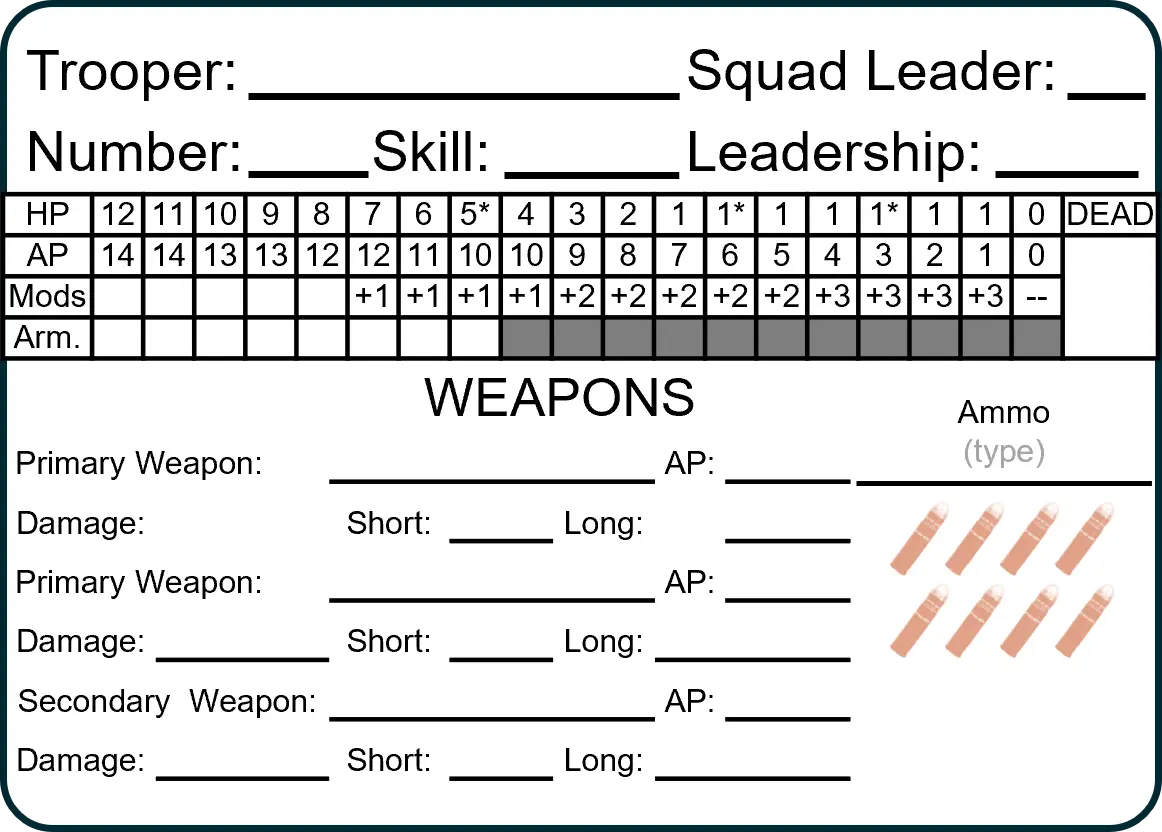
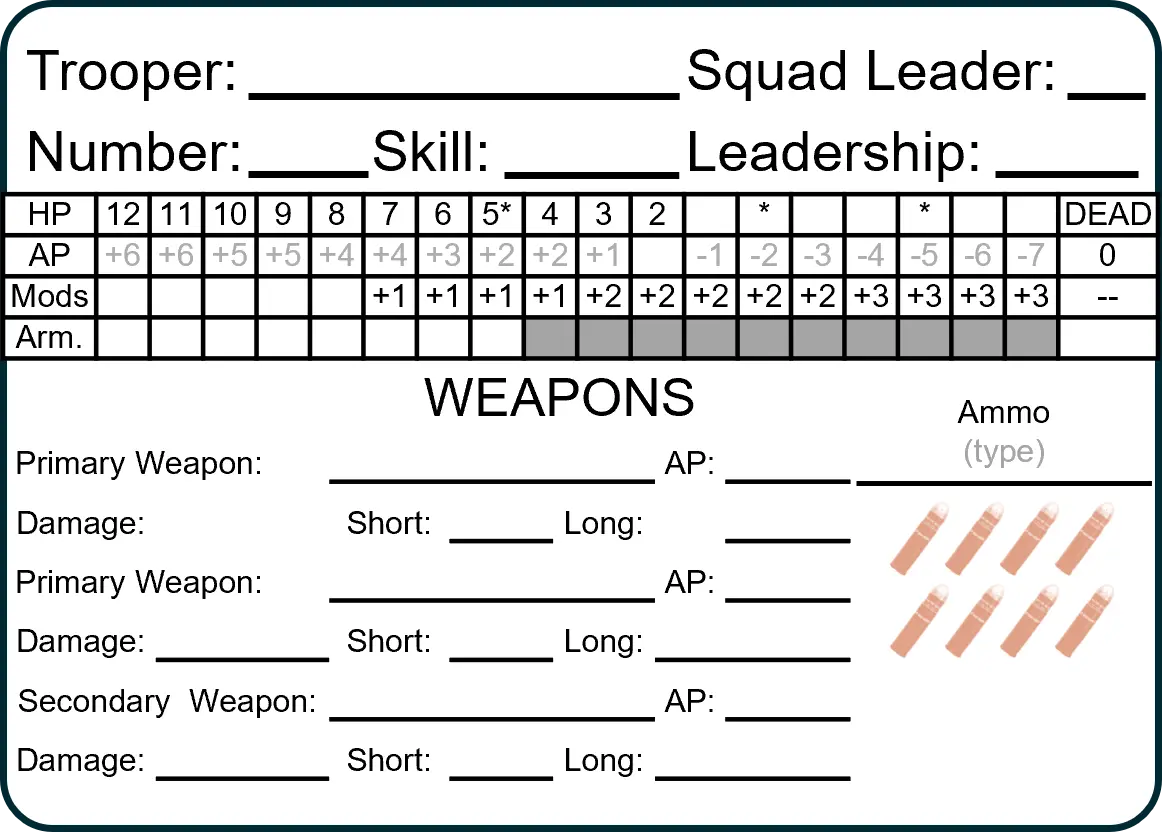
playtest fixes

Changed region(s): [[0.0, 0.2188, 0.9914, 0.4375]]

diff --git a/rules/2-Infantry/4-Combat.tex b/rules/2-Infantry/4-Combat.tex
@@ -23,19 +23,38 @@ This attack is resolved before the targeted trooper continues their movement.
 \caption*{Firing Arc AP Costs}
 \end{table}
 
+\paragraph*{Line of Sight}
+
+If a trooper can only attack a target if they have a valid line of sight.
+Draw a straight line between the firing trooper and the targeted trooper.
+Obstructions, such as furniture, light vegetation, and low walls, provide cover but do not block line of sight.
+Additional troopers, enemy or friendly, between the firing trooper and the targeted trooper also provide cover, unless the firing trooper is standing and the intervening trooper is prone.
+Impassible obstacles, such as a solid high wall, the truck of a tree, or a trooper, block line of sight.
+
+If the firing trooper or targeted trooper is prone, then any solid low obstructions, such as furniture and low walls, that are adjacent to firing trooper block line of sight.
+If the firing trooper and the targeted trooper are prone, then any solid low obstructions block line of sight.
+
+If either the firing trooper or the targeted trooper is at a higher level, such as at the window in a building, then only obstructions and obstacles at the same level of the higher trooper provide cover or block line of sight.
+However, all obstructions and obstacles within one dot of the targeted trooper always provides cover or blocks line of sight.
+
 \paragraph*{Resolving Fire}
 
 Note: Players resolve fire during the enemy movement, which occurs during your opponent's turn.
 
-If an enemy trooper activates in or moves into a firing arc, the firing trooper may choose to fire as long as the firing trooper has line of sight.
-A trooper may decide not to fire if they wish to preserve the firing arc for a future target.
+If an enemy trooper activates in or moves into a firing arc, the firing trooper may choose to fire as long as the firing trooper has a valid line of sight.
+If an enemy trooper is in multiple firing arcs, then firing troopers may all choose to fire, in any order.
+If an enemy trooper stands from prone, then they may be shot by any firing trooper that did not previously attack them on the current dot.
+A firing trooper may decide to not fire if they wish to preserve the firing arc for a future target.
 
-Draw a straight line between the firing trooper and the targeted trooper.
-Obstructions, such as furniture, light vegetation, and low walls, provide cover but do not block line of sight.
-Impassible obstacles, such as a solid high wall, the truck of a tree, or a trooper, block line of sight.
+The firing trooper may spend up to their current maximum AP firing into their firing arc during enemy movement.
+First, mark the AP spent by the firing trooper based upon the AP cost of their current active weapon.
+A trooper may make multiple attacks with their current active weapon as long as they have sufficient remaining AP.
+A trooper may always make a minimum of 1 attack into a firing arc.
+For example, a trooper 8 AP may fire a pistol twice into a firing arc while a trooper with 4 AP may only fire a long rifle once.
+After marking the AP spent firing, resolve the attack.
 
 Resolving fire is a 2D6 check with the firing trooper's current active weapon.
-If the roll meets or exceeds the target number, the attack succeeds.
+If the roll meets or exceeds the target number, then the attack succeeds.
 
 The base target number for ranged attacks is 6.
 Count the number of dots in the shortest path between the firing trooper and target trooper to determine the range.
@@ -88,14 +107,13 @@ The corresponding maximum AP is given by this column on the unit card.
 The new maximum AP immediately applies to the targeted trooper.
 If this new AP value meets or exceeds the AP the targeted trooper has already spent this turn, the targeted trooper immediately falls prone and can take no further actions.
 
-If the weapon is not a burst fire weapon (auto pistol, SMG, or laser SMG), then remove the firing arc once the firing is resolved.
+If the firing trooper has insufficient remaining AP to make additional attacks in the firing arc, then remove the firing arc once the firing is resolved.
 A trooper may decide to not fire if they wish to preserve the firing arc for a future target.
 
 \paragraph*{Melee Combat}
 
 It costs 5 AP to make a melee attack.
-Troopers may expend additional AP to increase the bludgeoning damage of their fists.
-The amount of bludgeoning damage for a melee attack with fists is given by half the AP used to make the attack, rounded down.
+The amount of bludgeoning damage for a melee attack with fists is given by half the attacking trooper's current maximum AP.
 Melee combat is resolved in the same way as ranged combat, and the attack is resolved during the targeted trooper's turn when they activate.
 
 The attacking trooper must have a melee weapon active.
@@ -103,7 +121,7 @@ The attacking trooper may use a bayonet attached to their current active weapon 
 A trooper can always make a melee attack with their fists.
 
 Resolving melee combat is a 2D6 check with the attacking trooper's current active weapon.
-If the roll meets or exceeds the target number, the attack succeeds.
+If the roll meets or exceeds the target number, then the attack succeeds.
 
 The base target number for melee attacks is 4.
 Apply all appropriate modifiers given above, except any modifiers for cover.
@@ -125,7 +143,7 @@ Explosives are resolved in the same way as ranged combat, but the attack is reso
 Place a token at the targeted dot for the explosives during the firing trooper's turn and resolve the explosive after all troopers on your side have activated.
 
 Resolving explosives is a 2D6 check with the firing trooper's current active explosive.
-If the roll meets or exceeds the target number, the attack succeeds.
+If the roll meets or exceeds the target number, then the attack succeeds.
 
 The base target number is the number of AP used to throw the hand grenade or satchel charge.
 Apply all appropriate modifiers given above.
@@ -140,6 +158,7 @@ Treat each level of height as one dot further away from the center of the explos
 
 If the target number is not met, then the explosive scatters.
 The explosive scatters from the targeted dot.
+If the explosive was fired through a window, then the explosive scatters from the first dot before the window along the line of sight.
 Roll 1D6 to determine the scatter direction, identifying one direction to correspond to a result of 1 and proceeding clockwise with the other values.
 If the path of scatter intersects an impassible obstacle, such as a solid high wall, then the explosive does not scatter and the center of the explosion stays on the targeted dot.
 Move the center of the explosion to the new dot and apply damage as above.

diff --git a/rules/2-Infantry/2-Weapons-Equipment.tex b/rules/2-Infantry/2-Weapons-Equipment.tex
@@ -12,23 +12,23 @@ Troopers can use the following primary weapons:
 \ifthenelse{\not \equal{\outworldsMode}{mode-web}}{\fontfamily{Montserrat-LF}}{\small}\selectfont
 \centering
 \newcolumntype{R}[1]{>{\raggedleft\let\newline\\\arraybackslash\hspace{0pt}}m{#1}}
-\begin{tabular}{!{\Vline{1pt}} m{6em} !{\Vline{1pt}} R{4.5em} !{\Vline{1pt}} R{6.5em} !{\Vline{1pt}} R{6.5em} !{\Vline{1pt}}}
+\begin{tabular}{!{\Vline{1pt}} m{6em} !{\Vline{1pt}} R{4.5em} !{\Vline{1pt}} R{4.5em} !{\Vline{1pt}} R{6.5em} !{\Vline{1pt}} R{6.5em} !{\Vline{1pt}}}
 \Hline{1pt}
-\rowcolor{black!30}  \bfseries{Weapon} & \bfseries{Damage} & \bfseries{Short Range} & \bfseries{Long Range} \\
+\rowcolor{black!30}  \bfseries{Weapon} & \bfseries{Damage} & \bfseries{AP Cost} & \bfseries{Short Range} & \bfseries{Long Range} \\
 \Hline{1pt}
-SMG*          & 3X &  5 &  17  \\
-Rifle         & 4X & 26 &  85  \\
-Laser SMG*    & 4X & 43 & 127  \\
-Laser Rifle   & 5X & 66 & 232  \\
-Long Rifle    & 6X & 30 & 102  \\
-Gyrojet Rifle & 6X & 31 & 137  \\
+SMG           & 3X & 1 &  5 &  17  \\
+Rifle         & 4X & 4 & 26 &  85  \\
+Laser SMG     & 4X & 1 & 43 & 127  \\
+Laser Rifle   & 5X & 4 & 66 & 232  \\
+Long Rifle    & 6X & 6 & 30 & 102  \\
+Gyrojet Rifle & 6X & 6 & 31 & 137  \\
 \Hline{1pt}
 \end{tabular}
 \caption*{Primary Weapons}
 \end{table}
 
-Note, the SMG and Laser SMG are burst fire weapons and can fire into the same firing arc multiple times.
-All other weapons may only fire into a firing arc once per turn.
+Each weapon has an AP cost per shot.
+A weapon can fire into the same firing arc multiple times as long as the firing trooper has sufficient AP remaining, but the trooper may always fire at least once.
 
 \paragraph*{Secondary Weapons}
 
@@ -39,20 +39,20 @@ Troopers can use the following ranged secondary weapons:
 \ifthenelse{\not \equal{\outworldsMode}{mode-web}}{\fontfamily{Montserrat-LF}}{\small}\selectfont
 \centering
 \newcolumntype{R}[1]{>{\raggedleft\let\newline\\\arraybackslash\hspace{0pt}}m{#1}}
-\begin{tabular}{!{\Vline{1pt}} m{6em} !{\Vline{1pt}} R{4.5em} !{\Vline{1pt}} R{6.5em} !{\Vline{1pt}} R{6.5em} !{\Vline{1pt}}}
+\begin{tabular}{!{\Vline{1pt}} m{6em} !{\Vline{1pt}} R{4.5em} !{\Vline{1pt}} R{4.5em} !{\Vline{1pt}} R{6.5em} !{\Vline{1pt}} R{6.5em} !{\Vline{1pt}}}
 \Hline{1pt}
-\rowcolor{black!30}  \bfseries{Weapon} & \bfseries{Damage} & \bfseries{Short Range} & \bfseries{Long Range} \\
+\rowcolor{black!30}  \bfseries{Weapon} & \bfseries{Damage} & \bfseries{AP Cost} & \bfseries{Short Range} & \bfseries{Long Range} \\
 \Hline{1pt}
-Pistol        & 2X &  7 & 20  \\
-Auto Pistol*  & 3X &  6 & 22  \\
-Laser Pistol  & 4X & 11 & 40  \\
+Pistol        & 2X & 3 &  7 & 20  \\
+Auto Pistol   & 3X & 1 &  6 & 22  \\
+Laser Pistol  & 4X & 3 & 11 & 40  \\
 \Hline{1pt}
 \end{tabular}
 \caption*{Ranged Secondary Weapons}
 \end{table}
 
-Note, the auto pistol is a burst fire weapon and can fire into the same firing arc multiple times.
-All other weapons may only fire into a firing arc once per turn.
+Each weapon has an AP cost per shot.
+A weapon can fire into the same firing arc multiple times as long as the firing trooper has sufficient AP remaining, but the trooper may always fire at least once.
 
 Troopers can use the following melee secondary weapons:
 
@@ -60,17 +60,17 @@ Troopers can use the following melee secondary weapons:
 \ifthenelse{\not \equal{\outworldsMode}{mode-web}}{\fontfamily{Montserrat-LF}}{\small}\selectfont
 \centering
 \newcolumntype{R}[1]{>{\raggedleft\let\newline\\\arraybackslash\hspace{0pt}}m{#1}}
-\begin{tabular}{!{\Vline{1pt}} m{7.2em} !{\Vline{1pt}} R{5em} !{\Vline{1pt}} R{6.5em} !{\Vline{1pt}} R{6.5em} !{\Vline{1pt}}}
+\begin{tabular}{!{\Vline{1pt}} m{7.2em} !{\Vline{1pt}} R{5.8em} !{\Vline{1pt}} R{4.5em} !{\Vline{1pt}} R{6.5em} !{\Vline{1pt}} R{6.5em} !{\Vline{1pt}}}
 \Hline{1pt}
-\rowcolor{black!30}  \bfseries{Weapon} & \bfseries{Damage} & \bfseries{Short Range} & \bfseries{Long Range} \\
+\rowcolor{black!30}  \bfseries{Weapon} & \bfseries{Damage} & \bfseries{AP Cost} & \bfseries{Short Range} & \bfseries{Long Range} \\
 \Hline{1pt}
-Fists         & (AP/2)\textbackslash & 1 & --  \\
-Bayonet/Knife & 3X                   & 1 & --  \\
-Blackjack     & 5\textbackslash      & 1 & --  \\
-Club          & 1X, 4\textbackslash  & 1 & --  \\
-Stun Baton    & 8\textbackslash      & 1 & --  \\
-Sword         & 4X                   & 1 & --  \\
-Vibroblade    & 5X                   & 1 & --  \\
+Fists         & (max AP/2)\textbackslash & 5 & 1 & --  \\
+Bayonet/Knife & 3X                       & 5 & 1 & --  \\
+Blackjack     & 5\textbackslash          & 5 & 1 & --  \\
+Club          & 1X, 4\textbackslash      & 5 & 1 & --  \\
+Stun Baton    & 8\textbackslash          & 5 & 1 & --  \\
+Sword         & 4X                       & 5 & 1 & --  \\
+Vibroblade    & 5X                       & 5 & 1 & --  \\
 \Hline{1pt}
 \end{tabular}
 \caption*{Melee Secondary Weapons}
@@ -103,7 +103,7 @@ The damage is given is descending order for the point of detonation, the adjacen
 It takes 1 AP per dot to throw a hand grenade and it takes 2 AP per dot to throw a satchel charge.
 
 A trooper carries 4 grenades in addition to their primary and secondary weapons.
-A satchel charge is a secondary weapon, so a trooper cannot carry a ranged or melee secondary weapon if they are carrying a satchel charge.
+A satchel charge is a secondary weapon, so a trooper cannot carry another secondary weapon if they are carrying a satchel charge.
 
 \paragraph*{Body Armor}
 

diff --git a/rules/3-Advanced-Combat/1-Crew-Weapons.tex b/rules/3-Advanced-Combat/1-Crew-Weapons.tex
@@ -4,21 +4,21 @@ Troopers may carry a crew served weapon in place of their primary weapon.
 \ifthenelse{\not \equal{\outworldsMode}{mode-web}}{\fontfamily{Montserrat-LF}}{\small}\selectfont
 \centering
 \newcolumntype{R}[1]{>{\raggedleft\let\newline\\\arraybackslash\hspace{0pt}}m{#1}}
-\begin{tabular}{!{\Vline{1pt}} m{14em} !{\Vline{1pt}} R{4.5em} !{\Vline{1pt}} R{3.5em} !{\Vline{1pt}} R{6.5em} !{\Vline{1pt}} R{6.5em} !{\Vline{1pt}}}
+\begin{tabular}{!{\Vline{1pt}} m{14em} !{\Vline{1pt}} R{4.5em} !{\Vline{1pt}} R{4.5em} !{\Vline{1pt}} R{3.5em} !{\Vline{1pt}} R{6.5em} !{\Vline{1pt}} R{6.5em} !{\Vline{1pt}}}
 \Hline{1pt}
-\rowcolor{black!30}  \bfseries{Weapon} & \bfseries{Damage} & \bfseries{Crew} & \bfseries{Short Range} & \bfseries{Long Range} \\
+\rowcolor{black!30}  \bfseries{Weapon} & \bfseries{Damage} & \bfseries{AP Cost} & \bfseries{Crew} & \bfseries{Short Range} & \bfseries{Long Range} \\
 \Hline{1pt}
-Light Machine Gun*         &  5X & 0 &  29 & 100  \\
-Medium Machine Gun*        &  6X & 1 &  34 & 112  \\
-Heavy Machine Gun*         &  7X & 2 &  36 & 125  \\
-Semi-Portable Laser*       & 10X & 1 &  80 & 240  \\
-Heavy Semi-Portable Laser* & 13X & 2 & 106 & 380  \\
+Light Machine Gun         &  5X & 0 & -- &  29 & 100  \\
+Medium Machine Gun        &  6X & 1 & -- &  34 & 112  \\
+Heavy Machine Gun         &  7X & 2 & -- &  36 & 125  \\
+Semi-Portable Laser       & 10X & 1 & -- &  80 & 240  \\
+Heavy Semi-Portable Laser & 13X & 2 & -- & 106 & 380  \\
 \Hline{1pt}
 \end{tabular}
 \caption*{Crew Served Weapons}
 \end{table}
 
-Note, all of these crew served weapons are burst fire weapons and can fire into the same firing arc multiple times.
+Note, all of these crew served weapons have an extremely high rate of fire and can be fired into the same firing arc an unlimited number of times.
 
 The crew value indicates how many additional troopers must be on adjacent dots while the weapon is being set up or broken down.
 For example, a semi-portable laser requires one extra trooper to be on a dot adjacent to the trooper carrying the weapon during set up or break down.

diff --git a/rules/5-Power-Armor/4-Combat.tex b/rules/5-Power-Armor/4-Combat.tex
@@ -9,21 +9,20 @@ If one of a power armor trooper's weapons is an explosive, this trooper may use 
 \paragraph*{Melee Combat}
 
 It costs 5 AP to make a melee attack.
-Troopers may expend additional AP to increase the bludgeoning damage of their attack.
-The amount of bludgeoning damage is given by half the AP used to make the attack, rounded down.
+The amount of bludgeoning damage for a melee attack with fists is given by half the attacking trooper's current maximum AP.
 
 \begin{table}[H]
 \ifthenelse{\not \equal{\outworldsMode}{mode-web}}{\fontfamily{Montserrat-LF}}{\small}\selectfont
 \centering
 \newcolumntype{R}[1]{>{\raggedleft\let\newline\\\arraybackslash\hspace{0pt}}m{#1}}
-\begin{tabular}{!{\Vline{1pt}} m{6em} !{\Vline{1pt}} R{5em} !{\Vline{1pt}} R{6.5em} !{\Vline{1pt}} R{6.5em} !{\Vline{1pt}}}
+\begin{tabular}{!{\Vline{1pt}} m{5em} !{\Vline{1pt}} R{7.3em} !{\Vline{1pt}} R{6.5em} !{\Vline{1pt}} R{6.5em} !{\Vline{1pt}}}
 \Hline{1pt}
 \rowcolor{black!30}  \bfseries{Weapon} & \bfseries{Damage} & \bfseries{Short Range} & \bfseries{Long Range} \\
 \Hline{1pt}
-Fists         & 1X, (AP/2)\textbackslash & 1 & --  \\
+Fists         & 1X, (max AP/2)\textbackslash & 1 & --  \\
 \Hline{1pt}
 \end{tabular}
-\caption*{Power Armor Mele Weapons}
+\caption*{Power Armor Melee Weapons}
 \end{table}
 
 \paragraph*{Explosives}

diff --git a/rules/5-Power-Armor/2-Weapons-Equipment.tex b/rules/5-Power-Armor/2-Weapons-Equipment.tex
@@ -13,8 +13,8 @@ Power armor troopers may use the following primary weapons:
 \Hline{1pt}
 \rowcolor{black!30}  \bfseries{Weapon} & \bfseries{Damage} & \bfseries{AP Cost} & \bfseries{Ammo} & \bfseries{Short Range} & \bfseries{Long Range} \\
 \Hline{1pt}
-Machine Gun*      &           6X & -- & -- &  34 & 112  \\
-Small Laser       &          12X & -- & -- & 101 & 365  \\
+Machine Gun       &           6X & -- & -- &  34 & 112  \\
+Heavy Laser       &          12X &  1 & -- & 101 & 365  \\
 Flamethrower      &     8X/4X/2X &  4 & -- &  12 &  28  \\
 Anti-Tank Missile & 13X/6X/3X/1X &  5 &  2 &  77 & 176  \\
 \Hline{1pt}
@@ -22,7 +22,7 @@ Anti-Tank Missile & 13X/6X/3X/1X &  5 &  2 &  77 & 176  \\
 \caption*{Primary Weapons}
 \end{table}
 
-Note, the machine gun is a burst fire weapon and can fire into the same firing arc multiple times.
-All other weapons may only fire into a firing arc once per turn.
+Note, the machine gun has an extremely high rate of fire and can be fired into the same firing arc an unlimited number of times.
+The heavy laser can fire into the same firing arc multiple times as long as the firing trooper has sufficient AP remaining, but the trooper may always fire at least once.
 
 Any standard infantry weapons may be used as a secondary weapon for power armor troopers.

diff --git a/rules/2-Infantry/1-Unit-Card.tex b/rules/2-Infantry/1-Unit-Card.tex
@@ -18,8 +18,9 @@ The current HP of the trooper is given by the first cell to the right of the low
 For example, if the trooper has HP 9, 7, and 6 fully crossed out and HP 5 partially crossed out, then their current HP is 5.
 
 Total action points (AP) for the trooper are given in the AP section.
-Use the value in the column corresponding to the trooper's current HP.
-For example, if the trooper has 5 HP, then they have 7 AP.
+A regular trooper has 8 AP at 10 HP.
+Use the AP value in the column corresponding to the trooper's current HP.
+For example, if a regular trooper has 5 HP, then they have 7 AP.
 
 Similarly, the modifier section tracks the current modifier for the trooper's target numbers from damage.
 For example, if the trooper has 5 HP, then add +2 to all target numbers.

diff --git a/rules/2-Infantry/3-Movement.tex b/rules/2-Infantry/3-Movement.tex
@@ -19,9 +19,9 @@ The trooper stays on the same dot when changing levels.
 The current level of the trooper should be tracked on the unit card or next to the miniature.
 
 Troopers may hide behind solid obstructions, such as furniture and low walls.
-It costs 1 AP to crouch or go prone.
-It costs 2 AP to stand from a crouching or prone position.
-Movement while crouching or prone costs double the standard AP.
+It costs 1 AP to go prone.
+It costs 2 AP to stand from a prone position.
+Movement while prone costs double the standard AP.
 
 \begin{table}[H]
 \ifthenelse{\not \equal{\outworldsMode}{mode-web}}{\fontfamily{Montserrat-LF}}{\small}\selectfont

diff --git a/rules/0-Introduction/index.tex b/rules/0-Introduction/index.tex
@@ -28,4 +28,4 @@
 \subsubsection*{Version}
 % --------------------------------------------------------------------------------
 
-This \ifthenelse{\equal{\outworldsMode}{mode-web}}{website is current as of \today}{document is for \emph{Skirmishers} version 0.3-alpha, 14 April 2025}.
+This \ifthenelse{\equal{\outworldsMode}{mode-web}}{website is current as of \today}{document is for \emph{Skirmishers} version 0.3, 16 April 2025}.
